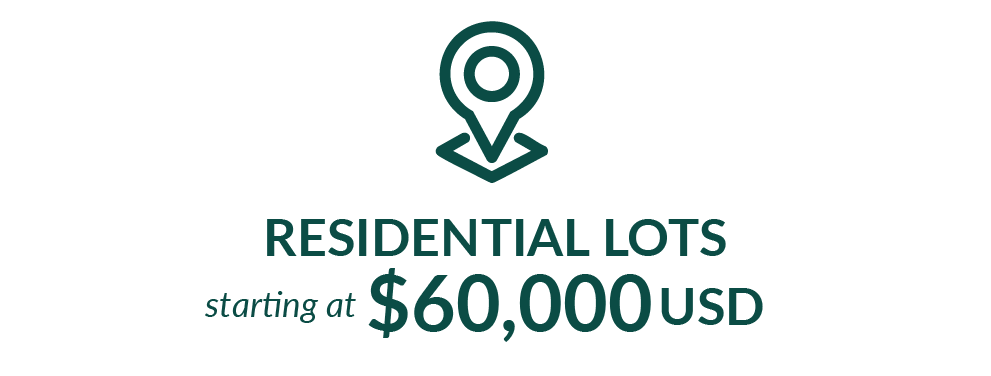
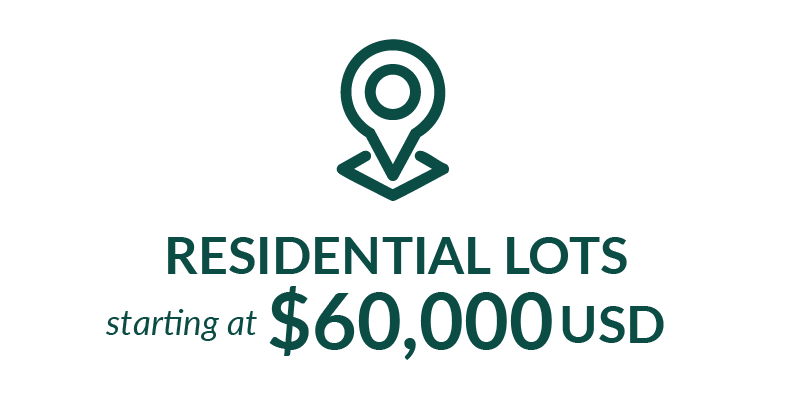
changing size on pop images for beneficios section

Changed region(s): [[0.1221, 0.5559, 0.855, 0.9069], [0.4275, 0.0585, 0.5802, 0.4973]]

diff --git a/en/index.html b/en/index.html
@@ -83,16 +83,16 @@
   <section id="beneficios">
     <div class="title-container">Benefits&nbsp;of&nbsp;investing in&nbsp;Aldea&nbsp;Umm</div>
     <div class="items-container">
-      <div class="item" data-aos="fade-left" data-aos-delay="0" data-aos-duration="1000"><img class="pop item-a"
+      <div class="item" data-aos="fade-left" data-aos-delay="0" data-aos-duration="1000"><img class="pop item-a en"
           src="../assets/pop-1-en.png" alt="pop image1"></div>
       <div class="division-line" data-aos="fade-left" data-aos-delay="0" data-aos-duration="1000"></div>
-      <div class="item" data-aos="fade-left" data-aos-delay="200" data-aos-duration="1000"><img class="pop item-a"
+      <div class="item" data-aos="fade-left" data-aos-delay="200" data-aos-duration="1000"><img class="pop item-a en"
           src="../assets/pop-2-en.png" alt="pop image2"></div>
       <div class="division-line" data-aos="fade-left" data-aos-delay="200" data-aos-duration="1000"></div>
-      <div class="item" data-aos="fade-left" data-aos-delay="400" data-aos-duration="1000"><img class="pop item-a"
+      <div class="item" data-aos="fade-left" data-aos-delay="400" data-aos-duration="1000"><img class="pop item-a en"
           src="../assets/pop-3-en.png" alt="pop image3"></div>
       <div class="division-line" data-aos="fade-left" data-aos-delay="400" data-aos-duration="1000"></div>
-      <div class="item" data-aos="fade-left" data-aos-delay="600" data-aos-duration="1000"><img class="pop item-a"
+      <div class="item" data-aos="fade-left" data-aos-delay="600" data-aos-duration="1000"><img class="pop item-a en"
           src="../assets/pop-4-en.png" alt="pop image4"></div>
     </div>
   </section>

diff --git a/css/beneficios.css b/css/beneficios.css
@@ -19,6 +19,9 @@
 #beneficios .item .pop{
     height: 10rem;
 }
+#beneficios .item .pop.en{
+    height: 8rem;
+}
 #lotes-image{
     display: none;
 }
@@ -44,6 +47,9 @@
     height: 9rem;
     padding: 0 1rem;
 }
+    #beneficios .item .pop.en{
+    height: 8rem;
+}
 #beneficios .division-line{
     height: 6rem;
     width: 2px;
@@ -51,5 +57,7 @@
 }
 }
 @media screen and (min-width: 768px) and (min-height: 721px) {
-
+    #beneficios .item .pop.en{
+    height: 9rem;
+}
 }
